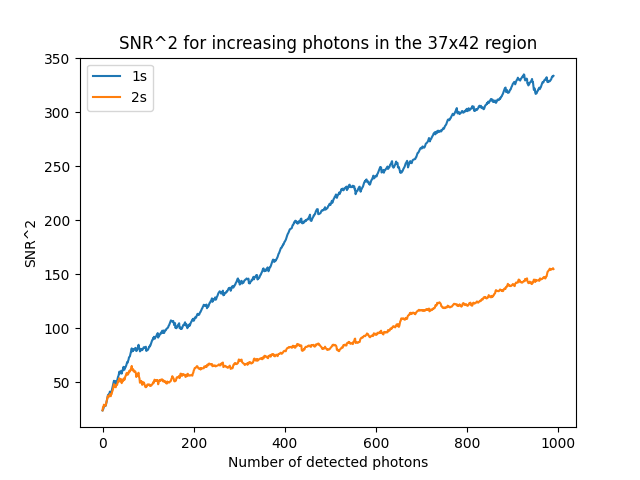
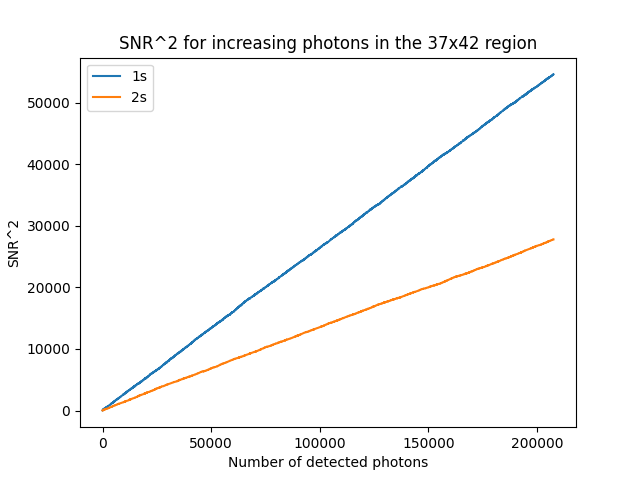
Extensive plots and various background removal methods

diff --git a/Statistical_analysis.py b/Statistical_analysis.py
@@ -10,35 +10,25 @@ from matplotlib.animation import PillowWriter
 WAVELENGTH = 1240 * 10 ** -9 / (25 * 10 ** 3)
 microns = 10 ** -6
 pixel_size = 75 * microns
-min_distance = -138.5 * pixel_size
-max_distance = 138.5 * pixel_size
+MIN_DISTANCE = -138.5 * pixel_size
+MAX_DISTANCE = 138.5 * pixel_size
 
-I0 = 1  # Incident photon fluence
-Ib = 0  # Background fluence
+I0 = 1.0  # Incident photon fluence
+Ib = 0.0  # Background fluence
 # d = 3 * microns  # Width of each slit
-d = 1.6 * microns
-L = 36  # Source to slits distance
-R = 110  # Slit to detector distance
+d_halfopt = 1.6 * microns
+L = 36.0  # Source to slits distance
+R = 110.0  # Slit to detector distance
 # D = 6 * microns  # Separation between slits
-D = 5.5 * microns
-s = 40 * microns  # Size of light source along y-axis (slit height?)
+D_halfopt = 5.5 * microns
+s_unopt = 40 * microns  # Size of light source along y-axis (slit height?)
 E = 25 * 10 ** 3  # Photon energy
+POPT = [1.56251700e-04, 1.68774246e-06, 5.41761927e-06]
+sub_region_photons = 207570
 
 
-# max_x = 289
-# max_y = 276
-
-
-def plotter(data, theoretical):
-    """Plots a given dataset"""
-    x_values = np.arange(len(data))
-    fig, ax = plt.subplots()
-    ax.plot(x_values, data)
-    ax.plot(x_values, theoretical)
-    ax.set(xlabel="X_pixel", ylabel="Counts", title="Y2s Data")
-    plt.grid(True)
-    plt.savefig("Y2s_full.svg")
-    plt.show()
+MAX_x = 289
+MAX_y = 276
 
 
 def chi_squared_test(observed, theoretical):
@@ -58,21 +48,36 @@ def chi_squared_test(observed, theoretical):
 
 # def cramer_von_mises_test(data):
 #
-def theoretical_distribution_2s(number_points=10000, wavelength=WAVELENGTH):
+def theoretical_distribution_2s(s=s_unopt, d=d_halfopt,
+        D=D_halfopt, number_points=10000, wavelength=WAVELENGTH):
     """Creates a theoretical distribution for the data."""
     # wavelength = 1240 * 10 ** -9 / E
     A = 2 * wavelength * R / d  # Single slit equivalent (envelope)
     a = wavelength * R / D  # Period of 2s interference
     t = s * D / (wavelength * L)
     V = np.sin(np.pi * t) / (np.pi * t)
-    x = np.linspace(min_distance, max_distance,
-                    int((max_distance - min_distance) / pixel_size))
+    x = np.linspace(MIN_DISTANCE, MAX_DISTANCE,
+                    int((MAX_DISTANCE - MIN_DISTANCE) / pixel_size))
     y_values = (2 * I0 * (np.divide(
         np.sin(2 * np.pi * x / A), (2 * np.pi * x / A), out=np.ones_like(x),
         where=x != 0)) ** 2 * (1 + V * np.cos(2 * np.pi * x / a)) + Ib)
     scale = np.sum(y_values)
     y_values = y_values * number_points / scale
     return y_values
+
+
+def theoretical_distribution_opt(x, s=s_unopt, d=d_halfopt, D=D_halfopt):
+    """Creates a theoretical distribution for the data."""
+    A = 2 * WAVELENGTH * R / d  # Single slit equivalent (envelope)
+    a = WAVELENGTH * R / D  # Period of 2s interference
+    t = s * D / (WAVELENGTH * L)
+    V = np.sin(np.pi * t) / (np.pi * t)
+    y_values = (2 * I0 * (np.divide(np.sin(2 * np.pi * x / A),
+        (2 * np.pi * x / A),
+        out=np.ones_like(x),where=x != 0)) ** 2 * (
+            1 + V * np.cos(2 * np.pi * x / a)) + Ib)
+    y_values_scaled = 207570 * y_values / np.sum(y_values)
+    return y_values_scaled
 
 
 # def theoretical_distribution_1s(number_points,wavelength=WAVELENGTH):
@@ -140,9 +145,9 @@ def plotter_anim(data, theoretical, y_values):
 
 
 def masker(data, min_x, max_x, min_y, max_y):
-    """Mask out bad data"""
-    mask_x = (data["x"] >= min_x) & (data["x"] <= max_x)
-    mask_y = (data["y"] >= min_y) & (data["y"] <= max_y)
+    """Mask out bad data, includes mins but not maxes"""
+    mask_x = (data["x"] >= min_x) & (data["x"] < max_x)
+    mask_y = (data["y"] >= min_y) & (data["y"] < max_y)
     mask = mask_x & mask_y
     data_masked = data[mask]
     return data_masked
@@ -150,10 +155,10 @@ def masker(data, min_x, max_x, min_y, max_y):
 
 def calc_snr(obs_data, theory_1s, theory_2s):
     """Calculates a custom version of an SNR^2"""
-    split_snr_1s = np.sum(
-        2 * (obs_data - theory_1s) ** 2 / (obs_data + theory_1s))
-    split_snr_2s = np.sum(
-        2 * (obs_data - theory_2s) ** 2 / (obs_data + theory_2s))
+    split_snr_1s = 2 * np.sum(
+        (obs_data - theory_1s) ** 2 / (obs_data + theory_1s))
+    split_snr_2s = 2 * np.sum(
+        (obs_data - theory_2s) ** 2 / (obs_data + theory_2s))
     return split_snr_1s, split_snr_2s
 
 
@@ -163,45 +168,54 @@ def check_snr2(obs_values):
     min_y = 121
     num_y = 42
     max_y = min_y + num_y
-    small_mask_obs = masker(obs_values, 126, 162, min_y, max_y)
+    obs_subregion = masker(obs_values, 126, 162, min_y, max_y)
     snr2_1s_list = []
     snr2_2s_list = []
-    for num_frames in range(10, 1000):
+    x = np.linspace(MIN_DISTANCE, MAX_DISTANCE,
+                    int((MAX_DISTANCE - MIN_DISTANCE) / pixel_size))
+    theoretical_dist_2s = theoretical_distribution_opt(x, *POPT)
+    subregion_2s = theoretical_dist_2s[min_y - 1:max_y - 1]
+    for num_frames in range(10, 207570):
         start_frame = 0
-        y_values = small_mask_obs["y"][start_frame:start_frame + num_frames]
-        small_mask_dist = np.bincount(y_values)
+        obs_frame_limit = obs_subregion["y"][start_frame:start_frame + num_frames]
+        obs_dist_frame_limit = np.bincount(obs_frame_limit)
         # drop zero values from small_mask_dist
-        small_mask_dist_new = small_mask_dist[min_y + 1:]
+        obs_drop_zero = obs_dist_frame_limit[min_y:]
         # Pad the end with zeroes so it is 42 long
-        small_mask_dist_pad = np.pad(small_mask_dist_new,
-                                     (0, num_y - len(small_mask_dist_new)))
-        theoretical_dist = theoretical_distribution_2s()
-        small_theory_dist = theoretical_dist[min_y:max_y]
-        small_theory_dist = small_theory_dist * len(y_values) / np.sum(
-            small_theory_dist)
-
-        theory_1s_values_scaled = theory_1s_values * num_frames / 70
-        snr2_1s, snr2_2s = calc_snr(small_mask_dist_pad,
+        obs_padded = np.pad(obs_drop_zero, (0, num_y - len(obs_drop_zero)))
+        theory_2s_scaled = subregion_2s * len(obs_frame_limit) / np.sum(
+            subregion_2s)
+        theory_1s_values_scaled = theory_1s_values * len(obs_frame_limit) / 70
+        # obs_padded = np.divide(obs_padded, np.sum(obs_padded))
+        # theory_2s_scaled = np.divide(theory_2s_scaled, np.sum(theory_2s_scaled))
+        # theory_1s_values_scaled = np.divide(theory_1s_values_scaled,
+        #                                    np.sum(theory_1s_values_scaled))
+        snr2_1s, snr2_2s = calc_snr(obs_padded,
                                     theory_1s_values_scaled,
-                                    small_theory_dist)
+                                    theory_2s_scaled)
+        snr2_1s /= num_frames
+        snr2_2s /= num_frames
         snr2_1s_list.append(snr2_1s)
         snr2_2s_list.append(snr2_2s)
-    # plt.plot(snr2_1s_list, label="1s")
-    # plt.plot(snr2_2s_list, label="2s")
-    # plt.title("SNR^2 for increasing photons in the 37x42 region")
-    # plt.xlabel("Number of detected photons")
-    # plt.ylabel("SNR^2")
-    # plt.legend()
-    # plt.show()
-    xs = np.arange(len(small_mask_dist_pad))
-    plt.plot(xs, small_mask_dist_pad, label="Experimental")
-    plt.plot(xs, small_theory_dist, label="Theoretical 2s")
-    plt.plot(xs, theory_1s_values, label="Theoretical 1s")
+    plt.plot(snr2_1s_list, label="1s")
+    plt.plot(snr2_2s_list, label="2s")
+    plt.title("SNR^2 for increasing photons in the 37x42 region")
+    plt.xlabel("Number of detected photons")
+    plt.ylabel("SNR^2")
+    plt.legend()
+    plt.show()
+    # print(f"SNR^2 1s: {snr2_1s}")
+    # print(f"SNR^2 2s: {snr2_2s}")
+    xs = np.arange(len(obs_padded))
+    plt.plot(xs, obs_padded, ".-", label="Experimental")
+    plt.plot(xs, theory_2s_scaled, ".-", label="Theoretical 2s")
+    plt.plot(xs, theory_1s_values_scaled, ".-", label="Theoretical 1s")
     plt.title("Sub-region plot of experimental and theoretical data")
     plt.ylabel("Counts")
     plt.xlabel("Y Pixel Coordinate")
     plt.legend()
     plt.show()
+
     # plt.savefig("Plots/Sub_region_plot.png")
     # print(f"Number of pixels: {len(y_values)}")
     # print(f"SNR^2 1s: {snr2_1s}")
@@ -219,37 +233,6 @@ def single_plotter(data, **settings):
     plt.show()
 
 
-def extract_background(obs_values):
-    """create the array bad area which is the number of pixels with x value
-    below 50 for each y value"""
-    bad_area = np.zeros(277)
-    for i in range(277):
-        bad_area[i] = np.sum(obs_values["x"][obs_values["y"] == i] < 50)
-    bad_total = 2 * bad_area * (150 ** 2) / (50 ** 2)  # Extrapolation
-    y_values = np.bincount(obs_values["y"])
-    good_y = y_values - bad_total
-    x_values = np.arange(len(good_y))
-    fig, ax = plt.subplots()
-    ax.plot(x_values, good_y)
-    ax.set(xlabel="X_pixel", ylabel="Counts", title="Band subtracted data")
-    plt.grid(True)
-    plt.show()
-
-
-def edge_plotter(data):
-    """Plots the edge data"""
-    edge_data = masker(data, 250, np.max(data["x"]), 0, np.max(
-        data["y"]))
-    y_values = np.bincount(edge_data["y"])
-    # print the index of the maximum value
-    print(np.argmax(y_values))
-    fig, ax = plt.subplots()
-    ax.plot(y_values)
-    ax.set(xlabel="Y_pixel", ylabel="Counts", title="Edge data")
-    plt.grid(True)
-    plt.show()
-
-
 def gaussian(x, a, b, c, offset):
     """Gaussian function"""
     return a * np.exp(-(x - b) ** 2 / c) + offset
@@ -257,24 +240,99 @@ def gaussian(x, a, b, c, offset):
 
 def band_isolation(data):
     """Masks out the good and bad data then takes the difference"""
+    y_width = 1
+    area_list = []
+    for y_start in np.arange(0, MAX_y + 1, y_width):
+        bad_data = data[
+            (data["y"] >= y_start) & (data["y"] <= y_start + y_width)]
+        bad_x = np.bincount(bad_data["x"])
+        x = np.arange(len(bad_x))
+        # Mask out the good data
+        mask = (x < 50) | (x > 250)
+        x_edges = x[mask].astype(float)
+        data_edges = bad_x[mask].astype(float)
+        for stddev in [10000000, 1000000, 100000, 50000, 22000]:
+            try:
+                # noinspection PyTupleAssignmentBalance
+                popt, _ = sc.optimize.curve_fit(gaussian, x_edges, data_edges,
+                                                p0=[np.max(bad_x), 150, stddev, 0])
+                break
+            except:
+                continue
+        data_central_pred = gaussian(x, *popt)
+        area = np.trapezoid(data_central_pred, x)
+        area_list.append(area)
+    spread_x = np.repeat(area_list, y_width) // y_width
+    final_section = y_width - (len(spread_x) - (MAX_y+1))
+    if final_section == 0:
+        bad_summed_x = spread_x
+    else:
+        bad_summed_x = spread_x[:MAX_y+1]
+        bad_summed_x[len(bad_summed_x)-final_section:] *= y_width // final_section
+    return bad_summed_x
+
+
+def band_iso_single(data):
+    """Masks out the good and bad data then takes the difference"""
+    y_width = 1
+    area_list = []
+    y_start = 150
     bad_data = data[
-        (data["y"] >= 115) & (data["y"] <= 125)]
+        (data["y"] >= y_start) & (data["y"] <= y_start + y_width)]
     bad_x = np.bincount(bad_data["x"])
-    # x_no_gap = np.concatenate((bad_x[:50], bad_x[250:]))
-    # popt, _ = sc.optimize.curve_fit(gaussian, x_no_gap, np.ones_like(x_no_gap),
-    #                     p0=[1, np.mean(x_no_gap), np.std(x_no_gap), 0])
-    #
-    # #
-
-
-
-
-    good_data = data[
-        (data["y"] >= 151) & (data["y"] <= 161)]
-    good_x = np.bincount(good_data["x"])
-    difference = bad_x - good_x
+    x = np.arange(len(bad_x))
+    # Mask out the good data
+    mask = (x < 50) | (x > 250)
+    x_edges = x[mask].astype(float)
+    data_edges = bad_x[mask].astype(float)
+    for stddev in [10000000, 1000000, 100000, 50000, 22000]:
+        try:
+            # noinspection PyTupleAssignmentBalance
+            popt, _ = sc.optimize.curve_fit(gaussian, x_edges, data_edges,
+                                            p0=[np.max(bad_x), 150, stddev, 0])
+            break
+        except:
+            continue
+    # print(popt)
+    data_central_pred = gaussian(x, *popt)
+    plt.plot(bad_x, ".-", label='Original Data')
+    plt.plot(x, data_central_pred,
+             label='Fitted Central Data')
+    plt.legend()
+    plt.show(block=True)
+    difference = bad_x - data_central_pred
     single_plotter(difference, xlabel="X_pixel", ylabel="Counts",
                    title="Data subtracted band")
+
+
+def subregion_optmized(data):
+    min_y = 121
+    num_y = 42
+    max_y = min_y + num_y
+    obs_subregion = masker(data, 126, 162, min_y, max_y)
+    obs_dist = np.bincount(obs_subregion["y"])
+    obs_drop_zero = obs_dist[min_y:]
+    # Right shift one
+    y_coords = np.arange(-18, 24, dtype=float) * pixel_size
+    # popt, pcov = sc.optimize.curve_fit(
+    #     theoretical_distribution_opt, y_coords, obs_drop_zero,
+    #     p0=[s_unopt, d_halfopt, D_halfopt],
+    #     bounds=([microns, 0.1*microns, 0.1*microns], [1, 1, 1]))
+    popt, pcov = sc.optimize.curve_fit(
+        theoretical_distribution_opt, y_coords, obs_drop_zero,
+        p0=[s_unopt],
+        bounds=([microns], [1]))
+    theoretical_distribution = theoretical_distribution_opt(y_coords, *popt)
+    plt.plot(y_coords/microns, obs_drop_zero, ".-", label="Experimental")
+    plt.plot(y_coords/microns, theoretical_distribution, ".-", label="Theoretical")
+    # plt.title(f"Optimized sub-region plot with \ns={popt[0]/microns:.2f} microns, "
+    #           f"d={popt[1]/microns:.2f} microns, D={popt[2]/microns:.2f} microns")
+    plt.title(f"Optimized sub-region plot with \ns={popt[0]/microns:.2f} microns, "
+              f"d={d_halfopt/microns:.2f} microns, D={D_halfopt/microns:.2f} microns")
+    plt.xlabel("Y dist from centre of interference(microns)")
+    plt.ylabel("Counts")
+    plt.legend()
+    plt.show()
 
 
 def main():
@@ -285,11 +343,22 @@ def main():
     obs_values = pd.read_csv("Data/full_data_masked.csv",
                              delimiter="\t", usecols=[0, 1],
                              dtype=int)
+    y_values = np.bincount(obs_values["y"])
+    cut_145 = y_values[145:]
+    cut_half = y_values[139:]
+    single_plotter(y_values, xlabel="Y_pixel", ylabel="Counts",
+                   title="Full data plot")
+    single_plotter(cut_145, xlabel="Y_pixel", ylabel="Counts",
+                   title="Cut at 145")
+    single_plotter(cut_half, xlabel="Y_pixel", ylabel="Counts",
+                     title="Cut at 139")
+    # subregion_optmized(obs_values)
+    # check_snr2(obs_values)
+    # band_iso_single(obs_values)
+    # bad_summed_x = band_isolation(obs_values)
+    # single_plotter(bad_summed_x, xlabel="Y_pixel", ylabel="Counts",
+    #                  title="Bad data isolation")
 
-    check_snr2(obs_values)
-    # extract_background(obs_values)
-    # edge_plotter(obs_values)
-    # band_isolation(obs_values)
 
     # plotter_anim(experimental_dist, theoretical_dist, y_values)
     # test_exact, test_random = random_test()
